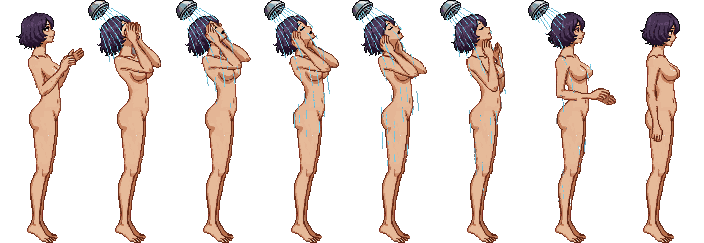
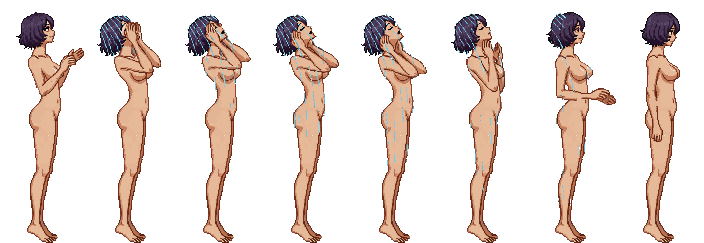
스팡달 SH_D: 그려진 샤워기 헤드·공중 물줄기 코드로 지움(top 다시 계산), 도구 tools/charpack/strip_painted_shower.py
Claude-Session: https://claude.ai/code/session_01MHVZo1dcLTnWmwDtATJEvk

diff --git a/tools/charpack/strip_painted_shower.py b/tools/charpack/strip_painted_shower.py
@@ -1,0 +1,50 @@
+"""캐릭터 팩 샤워 시트에 그려진 샤워기 헤드·공중 물줄기 지우기(사용자 2026-11-01 17:10 「캐릭터 찐빠, 코드로 지워야」).
+방법: 회색(헤드)·하늘색(물) 픽셀을 빼고 남는 가장 큰 덩어리 = 몸. 몸(1px 넓힘) 밖의 회색·하늘색 = 지움(투명).
+몸 안쪽 하늘색(머리카락·피부 위 물줄기)은 --inpaint 를 줄 때만 양옆 몸 픽셀로 메운다.
+사용: python3 tools/charpack/strip_painted_shower.py 1.2 SH_D [--inpaint] [--frames 1-6] → 원본은 tools/charpack/orig/ 에 남기고 덮어쓴다. char.json top 다시 계산."""
+import json, sys, os, shutil
+import numpy as np
+from PIL import Image
+from scipy import ndimage
+cid, anim = sys.argv[1], sys.argv[2]
+inpaint = '--inpaint' in sys.argv
+frames = None
+if '--frames' in sys.argv:
+    s, e = sys.argv[sys.argv.index('--frames') + 1].split('-'); frames = range(int(s), int(e) + 1)
+d = f'game-pack/char-{cid}/'; cj = json.load(open(d + 'char.json')); a = cj['A'][anim]
+p = d + anim + '.webp'; os.makedirs('tools/charpack/orig', exist_ok=True); orig = f'tools/charpack/orig/char-{cid}_{anim}.webp'   # 원본 보관(팩 밖)
+if not os.path.exists(orig): shutil.copy(p, orig)
+sh = np.array(Image.open(orig).convert('RGBA'))
+def masks(fr):
+    r, g, b, al = [fr[..., i].astype(int) for i in range(4)]
+    on = al > 0
+    gray = on & (abs(r - g) < 26) & (abs(g - b) < 26) & (r > 60) & (r < 240)
+    blue = on & (b > r + 40) & (b > 140) & (g > 110)
+    return on, gray, blue
+removed = 0
+for fi in (frames if frames is not None else range(a['n'])):
+    x0 = fi * a['cw']; fr = sh[:a['ch'], x0:x0 + a['cw']]
+    on, gray, blue = masks(fr)
+    body0 = on & ~gray & ~blue
+    lab, nc = ndimage.label(body0, structure=np.ones((3, 3)))
+    if nc == 0: continue
+    sizes = ndimage.sum(body0, lab, range(1, nc + 1)); body = lab == (int(np.argmax(sizes)) + 1)
+    bodyd = ndimage.binary_dilation(body, iterations=1)
+    kill = on & ~bodyd   # 몸에 안 붙은 것(헤드 윤곽·공중 물줄기)은 색과 상관없이 지움
+    fr[kill] = 0; removed += int(kill.sum())
+    if inpaint:
+        fix = blue & bodyd
+        ys, xs = np.nonzero(fix)
+        for y, x in zip(ys, xs):
+            row = fr[y]; cand = []
+            for dx in (-1, 1, -2, 2, -3, 3):
+                xx = x + dx
+                if 0 <= xx < fr.shape[1] and body[y, xx] and not blue[y, xx]: cand.append(row[xx]); 
+                if len(cand) >= 2: break
+            if cand: fr[y, x] = np.mean(np.array(cand), axis=0).astype(np.uint8)
+    # top 다시 계산
+    ys = np.nonzero(fr[..., 3] > 0)[0]
+    if len(ys): a['top'][fi] = int(ys.min()) + a['oy']   # top 은 전체 칸(w×h) 기준
+Image.fromarray(sh).save(p, lossless=True, quality=100)
+json.dump(cj, open(d + 'char.json', 'w'), ensure_ascii=False, separators=(',', ':'))
+print('removed px', removed, 'top', a['top'])
